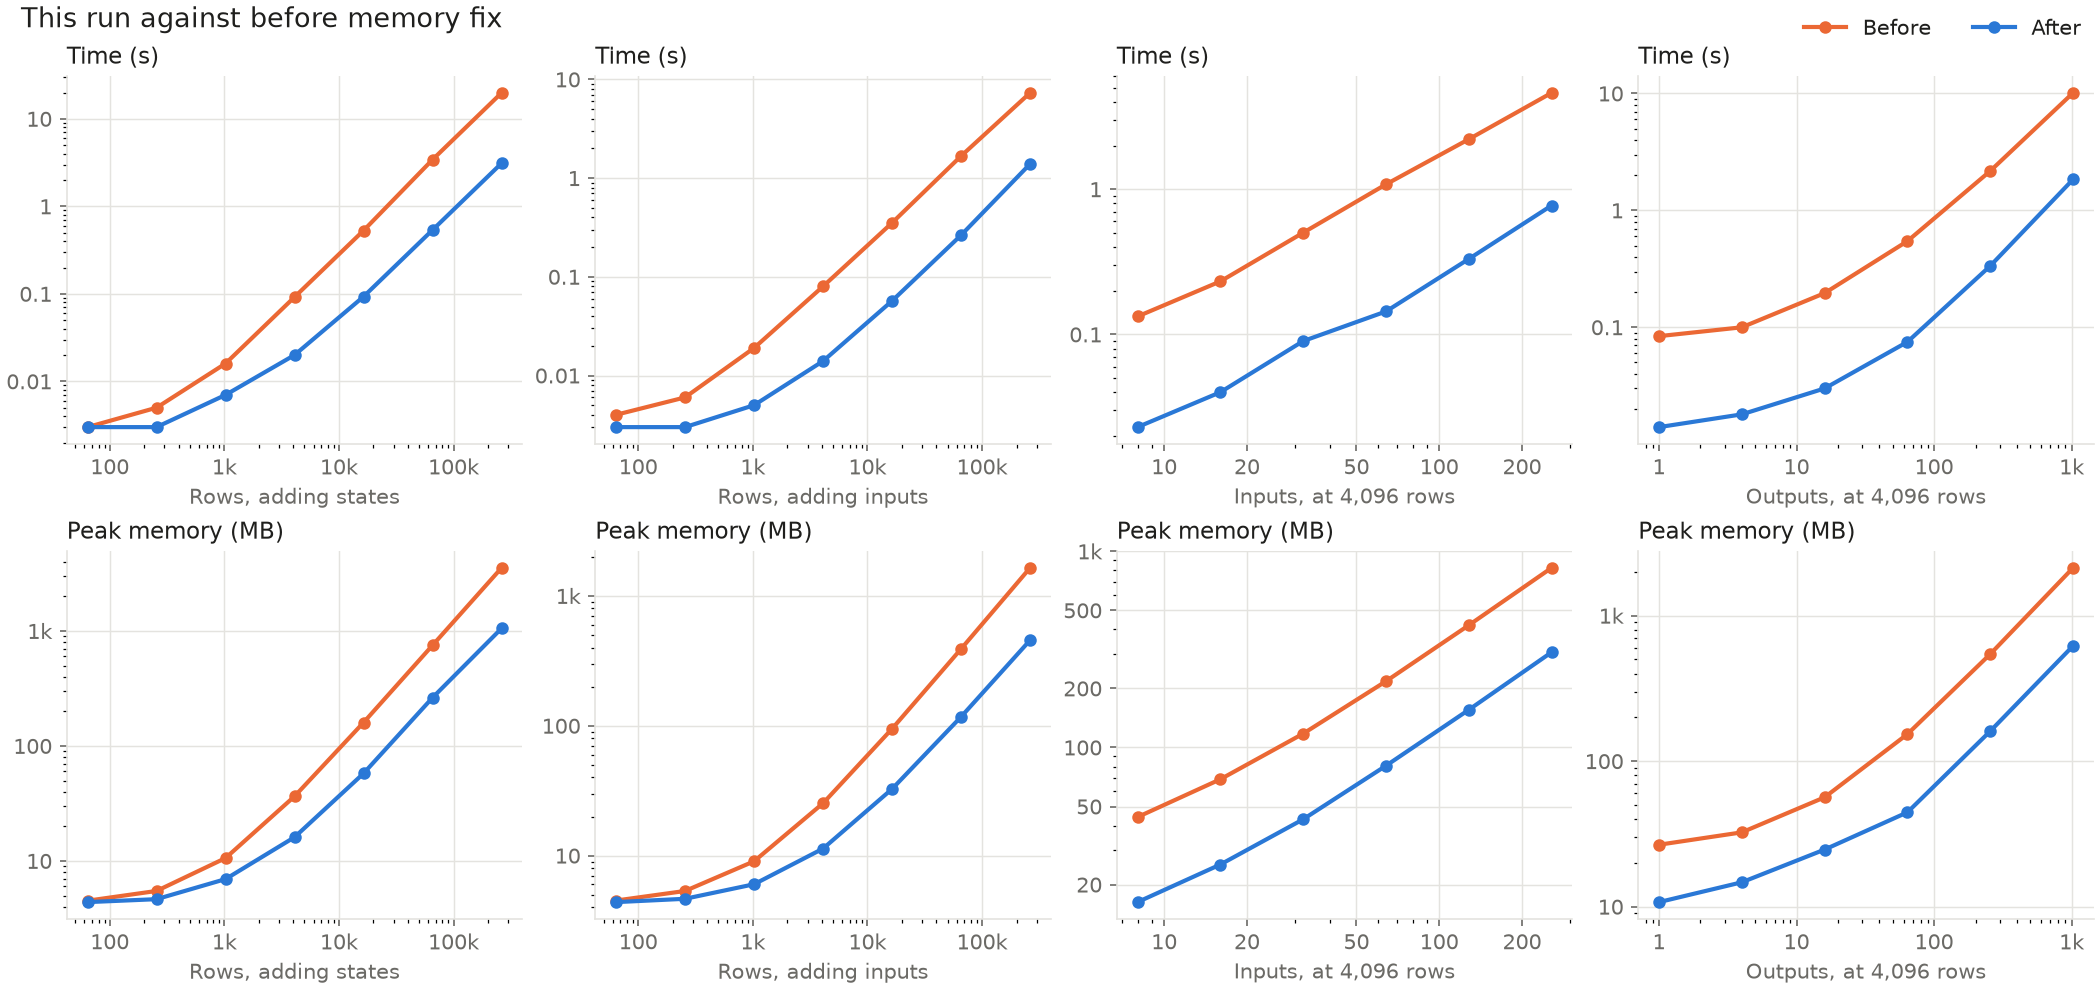
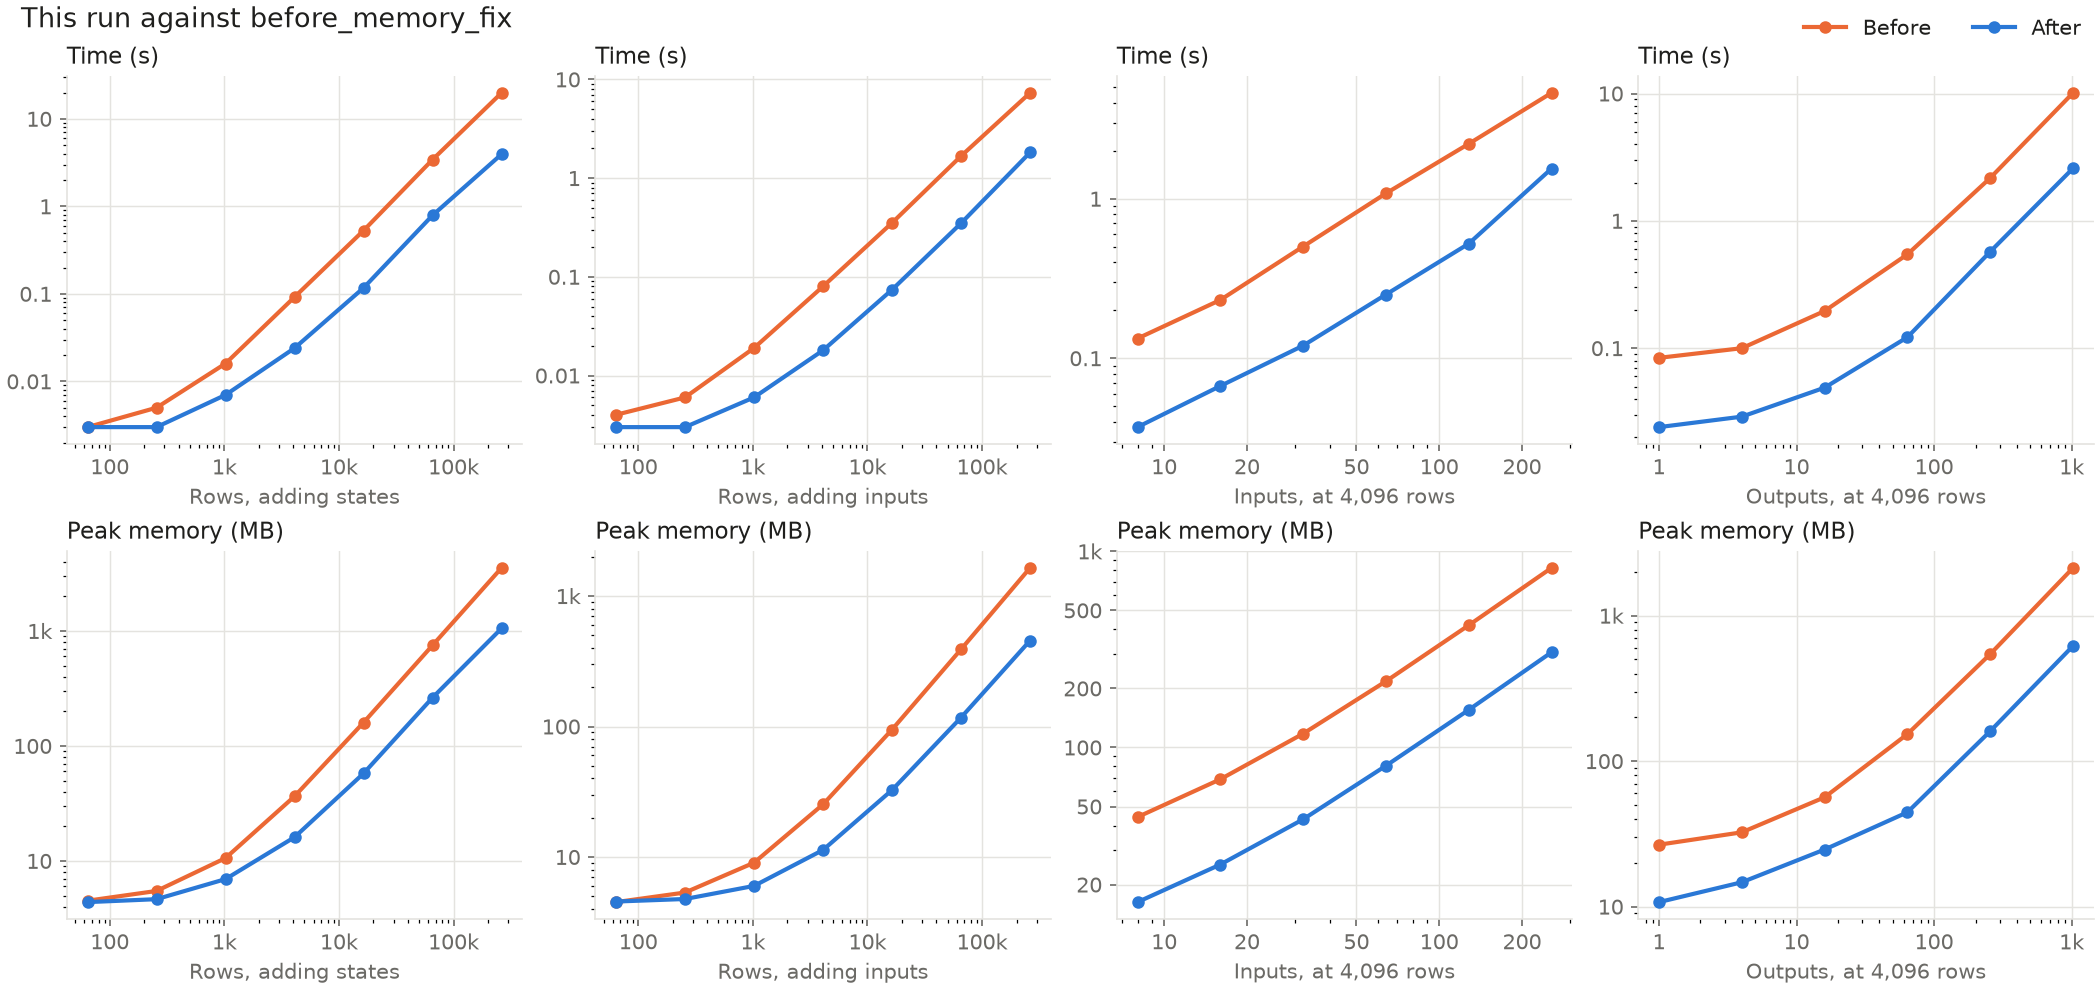
updated plot.py and hence the plots

diff --git a/benchmark/synthesizer/plot.py b/benchmark/synthesizer/plot.py
@@ -184,7 +184,7 @@ def compare_graph(rows, other, other_name, plots):
     sweeps = (("states", "rows", "Rows, adding states"), ("inputs_full", "rows", "Rows, adding inputs"),
               ("inputs_sparse", "inputs", "Inputs, at 4,096 rows"), ("outputs", "outputs", "Outputs, at 4,096 rows"))
     figure, axes = plt.subplots(2, len(sweeps), figsize=(14, 6.6), constrained_layout=True)
-    figure.suptitle(f"This run against {other_name.replace('_', ' ')}", x=0.01, ha="left", fontsize=13, color=INK)
+    figure.suptitle(f"This run against {other_name}", x=0.01, ha="left", fontsize=13, color=INK)
     for column, (family, field, xlabel) in zip(axes.T, sweeps):
         for axis, (label, value) in zip(column, (TIME, MEMORY)):
             for run, name, color in ((other, "Before", ORANGE), (rows, "After", BLUE)):
